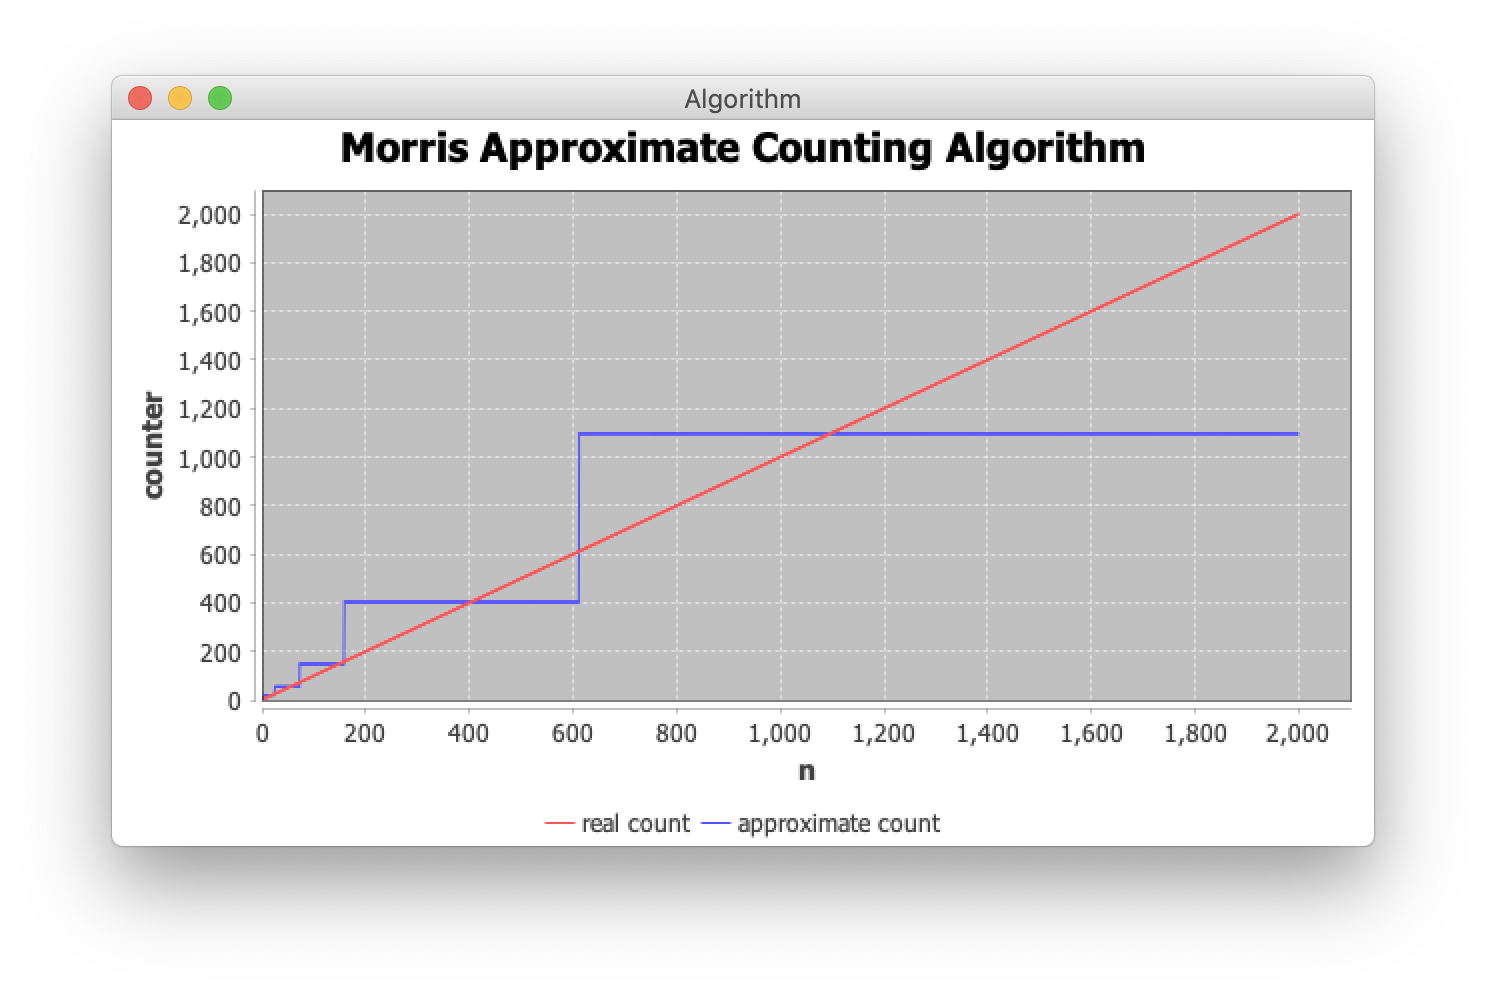
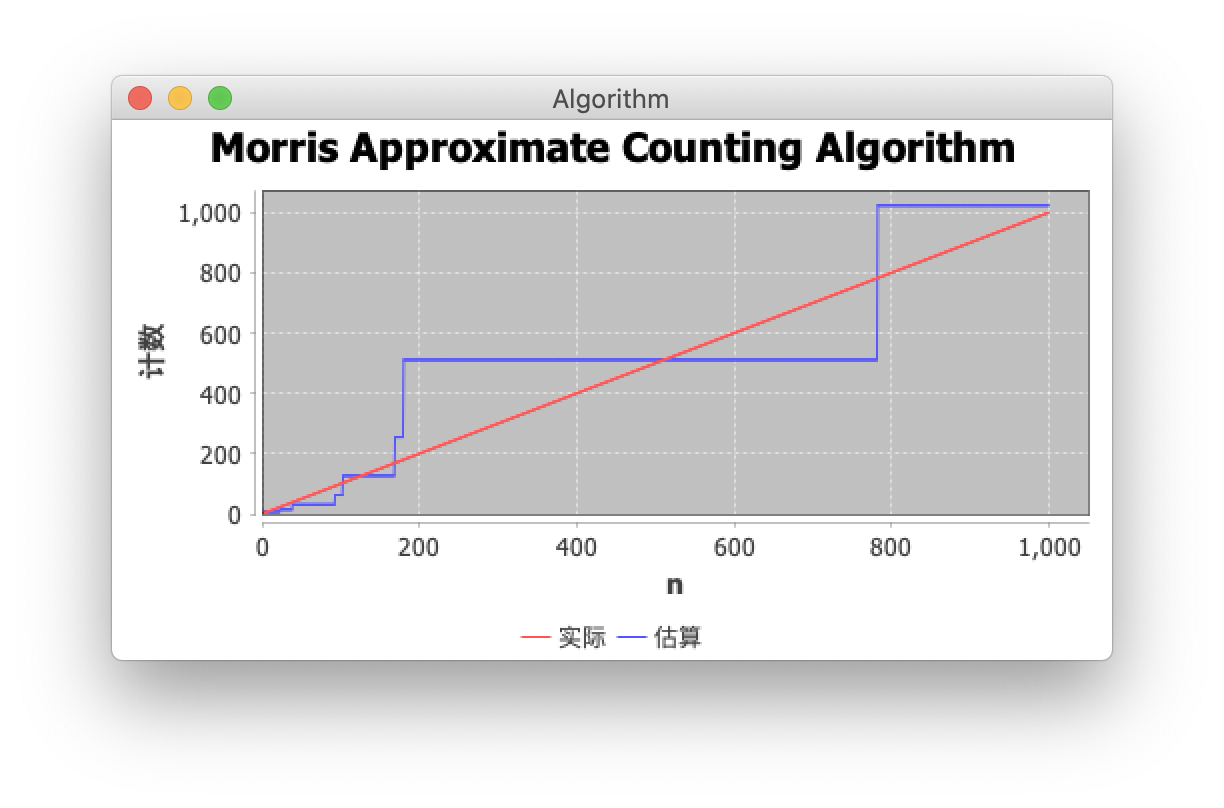
Polishing document structure

Changed region(s): [[0.0621, 0.0619, 0.9314, 0.8973]]

diff --git a/content/posts/algorithm/algorithm-morris-approximate-counter.md b/content/posts/algorithm/algorithm-morris-approximate-counter.md
@@ -6,27 +6,100 @@ categories: [algorithm]
 draft: false
 ---
 
-这是一个莫里斯计数器（近似计数算法）的 Java 实现，用很小的数据结构准确估计具有几十亿数据量的数据计数。
-
+这是一个 Morris 计数器（近似计数算法）的 Java 实现，用很小的数据结构准确估计具有几十亿数据量的数据计数。 
 我们通常会定义一个 Long 类型对象，通过累加的方式实现计数。每个 Long 类型占用 8 byte (64bit) 空间，如果你有 30 亿个要记录的对象，那么你就需要 22GB 的空间存储这些计数器，这还不不包括在哈希中的对象ID。
+
+## 背景 
+
+近似计数算法是允许我们使用非常少量的内存对大量事件进行计数的技术。它由 Robert Morris 于 1977 年发明。
+该算法使用概率技术来增加计数器，尽管它不能保证准确性，但它确实提供了对真实值的相当好的估计，同时引入了最小但相当恒定的相对误差。
+在这篇文章中，我们详细介绍了 Morris 算法及其背后的数学原理。 
+
+Morris 在贝尔实验室工作时遇到了一个问题。他应该编写一段代码来计算大量事件，而他只有一个 8 位计数器。
+由于事件的数量很容易超过 256，使用普通方法计算它们是不可行的，这种限制导致他构建了这个近似计数器，它不是提供精确计数，而是提供一个近似计数。
+
+## 计数和投硬币
+
+构建近似计数器的一个简单方案是对每次**事件变换**进行计数。每收到一个新事件，我们抛一次硬币，如果正面朝上，我们增加计数，否则不增加。
+这样计数器中的值平均下来将代表总事件的一半（因为抛硬币的获得正面并的概率是 0.5）。当我们将计数乘以 2 时，我们将得到近似实际数量的计数。
+
+[CoinFlipsCounter.java](https://github.com/coolbeevip/tutorials/blob/master/algorithm/morris-approximate-counter/src/main/java/org/coolbeevip/algorithm/approximatecounter/CoinFlipsCounter.java)
+
+这种基于抛硬币的计数技术是参数为 (n, p) 的二项分布，其中 n 是所见事件的总数，p 是成功概率，即在抛硬币过程中出现正面的概率。对真实事件数 n 的计数值 v 由下式给出
+
+$$ \large    估算值v = 实际值n * 概率p = 实际值n/2 $$
+
+这种二项式的正态分布标准偏差将帮助我们找到估算中的误差，对于正态分布平均值两侧标准差的**两倍**覆盖了分布的 95%；我们使用它来查找计数器值中的相对和绝对误差。
+
+$$ \large 误差 = \sqrt{实际值n * 概率p(1-概率p)} = \sqrt{估算值v/2} $$
+
+例如：估算计数器的值是 200，那么我们可以生成的最接近实际事件数量的近似值是 2 * 200 = 400。尽管 400 可能不是实际看到的事件数量，我们可以说，有 95% 的置信度。 根据上边的公式可以得出误差为 10。
+
+$$ \large \sqrt{200/2} = 10 $$
+
+我们根据 **正态分布平均值两侧标准差的两倍覆盖了分布的 95%** 这一规律计算，估算值为 200 正负 2*10 这个范围 
+
+$$ \large 估算值v \approx [180, 220] $$
+
+那么真实值范围就是 
+
+$$ \large 真实值n \approx [360,440]$$
+
+有了这个简单的抛硬币计数器，可以让我们的计数能力翻倍。通过改变 p 的值，这种方法可以扩展到计算更大的数字。这里观察到的绝对误差很小，但对于较小的计数，相对误差非常高，因此这需要一种具有接近恒定相对误差的技术，这种技术与 n 无关。
+
+## Morris 算法
+
+抛硬币计数器的限制很明显，只能节省一半空间。
+
+在这里，我们尝试利用对数的核心特性——对数函数的增长与指数函数成反比——这意味着对于较小的 n 值，值 v 增长得更快——提供更好的近似值。这确保了相对误差接近恒定，即与 n 无关，并且事件的数量是更少还是更多都无关紧要对于超大数可以使用对数简化
+
+$$ \large 估算值v_{n} = \log_{e}(实际值n+1) $$
+
+对数逆运算可以计算出估算值
+
+$$ \large 实际值n_{v} = e^{估算值v}-1 $$
+
+#### 累加
+
+还记得通过硬币的两面实现 0.5 的概率从而实现使用一半空间吗？
+这里为了确定我们是否应该增加 v 的值，如果 v 的变化导致 n 值的变化很大，那么我们增加 v 的概率应该较低，反之亦然。
+我们将 d 定义为该跳跃的倒数，即对应于 v + 1 和 v 的 n 之间的差。
+
+$$ \large d = \frac{1}{n_{v+1}-n_{v}} $$
+
+d 的值将始终在区间 (0, 1) 中。两个n之间的跳跃越小，d的值越大，跳跃越大，d的值越小。这也意味着随着 n 的增加，d 的值会变得越来越小，这使得我们更难改变 v。
+
+所以我们选择一个在区间 [0, 1) 中均匀生成的随机数 r 并使用这个随机数 r 和之前定义的 d 比较，如果这个 r 小于 d 则增加计数器 v 否则，我们保持原样。随着 n 的增加，d 会减少，这使得在 [0, d) 范围内选择 r 的几率变得更加困难
+
+#### 估算值 & 实际值
+
+Morris 算法使用欧拉数为底的对数，估算值v的计算函数
+
+$$ \large 估算值v = \frac{\log_{e}(实际值n+1)}{\log_{e}(2)} $$
+
+$$ \large 实际值n = e^{\log_{e}(2) * 估算值v} - 1 $$
+
+当我们绘制由 Morris 算法产生的值与实际事件数量的关系时，我们发现 Morris 算法确实为较小的 n 值生成了更好的近似值，但随着 n 的增加，绝对误差增加，但相对误差保持相当恒定。下面显示的插图描述了这些事实。
+
+1000 计数估算
+
+![algorithm-morris-approximate-counter](/images/posts/algorithm/algorithm-morris-approximate-counter/algorithm-morris-approximate-counter.png)
+
+100万 计数估算
+
+![algorithm-morris-approximate-counter_100w](/images/posts/algorithm/algorithm-morris-approximate-counter/algorithm-morris-approximate-counter_100w.png)
+
+[MorrisApproximateCounter.java](https://github.com/coolbeevip/tutorials/blob/master/algorithm/morris-approximate-counter/src/main/java/org/coolbeevip/algorithm/approximatecounter/MorrisApproximateCounter.java)
 
 例如我们记录网页的访问数量，并给出热点排名，如果我们面对的是每天有数十亿的访问场景，那么十亿和十亿零几千万差别并不大。这时我们往往不需要精确计数，如果我们只需要得到计数的近似值，并且使用一个小的数据结构( 例如 1 byte) 作为计数器，那么我们只需要大概 2GB 的空间就足够了。
 
 以下样例代码中，我们使用 1 byte (8bit) 的变量，实现千万级的计数
 
-![algorithm-morris-approximate-counter](/images/posts/algorithm/algorithm-morris-approximate-counter/algorithm-morris-approximate-counter.png)
-
-[MorrisApproximateCounter.java](https://github.com/coolbeevip/tutorials/blob/master/algorithm/morris-approximate-counter/src/main/java/org/coolbeevip/algorithm/approximatecounter/MorrisApproximateCounter.java)
 
 ```java
 public class MorrisApproximateCounter {
 
   private static final Logger log = LoggerFactory.getLogger(MethodHandles.lookup().lookupClass());
-
-  /**
-   * 底数使用欧拉常数或者2
-   */
-  double radix = 2.718;
 
   /**
    * 定义一个计数器变量
@@ -42,14 +115,17 @@ public class MorrisApproximateCounter {
    * 返回计数值
    */
   public double get() {
-    return Math.pow(radix, counter);
+    return Math.pow(Math.E, Math.log(2) * counter) - 1;
   }
 
   /**
    * 计数值累加
    */
   public byte increment() {
-    if (this.counter < 255 && random.nextDouble() < Math.pow(this.radix, -this.counter)) {
+    double n_next = Math.pow(Math.E, Math.log(2) * counter+1) - 1;
+    double n = Math.pow(Math.E, Math.log(2) * counter) - 1;
+    double d = 1 / (n_next - n);
+    if(random.nextDouble() < d){
       this.counter++;
     }
     return this.counter;
@@ -59,7 +135,7 @@ public class MorrisApproximateCounter {
     MorrisApproximateCounter mc = new MorrisApproximateCounter();
 
     // 定义实际数量
-    int realCount = 2_000;
+    int realCount = 1000_000;
 
     double[][] real_graph_data = new double[realCount][2];
     double[][] approximate_graph_data = new double[realCount][2];
@@ -79,9 +155,10 @@ public class MorrisApproximateCounter {
     log.info("实际计数 {}, 近似计数 {}", realCount, (int) mc.get());
 
     // 绘制图形
-    LineChartFrame chart = new LineChartFrame("Algorithm", "Morris Approximate Counting Algorithm", "n","counter");
-    chart.addXYSeries("real count",real_graph_data);
-    chart.addXYSeries("approximate count",approximate_graph_data);
+    LineChartFrame chart = new LineChartFrame("Algorithm", "Morris Approximate Counting Algorithm",
+        "n", "计数");
+    chart.addXYSeries("实际", real_graph_data);
+    chart.addXYSeries("估算", approximate_graph_data);
     chart.pack();
     chart.setVisible(true);
   }
@@ -91,11 +168,17 @@ public class MorrisApproximateCounter {
 执行结果，因为采用随机概率，所以每次估算的近似值都不同，有的时候误差还较大，如何减少这种误差？
 
 ```shell
-实际计数 2000, 近似计数 1095
+实际计数 1000000, 近似计数 1048574
 ```
+## 空间复杂度
 
-使用是一个小型数组结构，通过哈希定位索引存储多个计数器，可以参考 [MorrisApproximateHashCounter.java](https://github.com/coolbeevip/tutorials/blob/master/algorithm/morris-approximate-counter/src/main/java/org/coolbeevip/algorithm/approximatecounter/MorrisApproximateHashCounter.java)
+为了计数到 n，Morris 算法使用对数 log(n)，因此从 0 到 log(n) 计数所需的位数通常是 log(log(n))，因此空间复杂度为 O(log log n)。
 
-参考
+## 多计数器
 
-* [Approximate_counting_algorithm](https://en.wikipedia.org/wiki/Approximate_counting_algorithm)
+这里演示了如何使用一个数组通过哈希定位索引存储多个计数器，可以参考 [MorrisApproximateHashCounter.java](https://github.com/coolbeevip/tutorials/blob/master/algorithm/morris-approximate-counter/src/main/java/org/coolbeevip/algorithm/approximatecounter/MorrisApproximateHashCounter.java)
+
+## 参考
+
+* [Approximate Counting Algorithm - Wikipedia](https://en.wikipedia.org/wiki/Approximate_counting_algorithm)
+* [Probabilistic Counting and Morris' Algorithm - Texas A&M University](http://cesg.tamu.edu/wp-content/uploads/2014/09/ECEN689-lec11.pdf)

diff --git a/content/bookmarks.md b/content/bookmarks.md
@@ -38,3 +38,7 @@ Some of my favorite websites/tools with excellent design and UX that I highly re
 ## Diagram
 
 [Isoflow](https://isoflow.io/)
+
+## Typesetting mathematics
+
+[Katex](https://katex.org/docs/supported.html)
